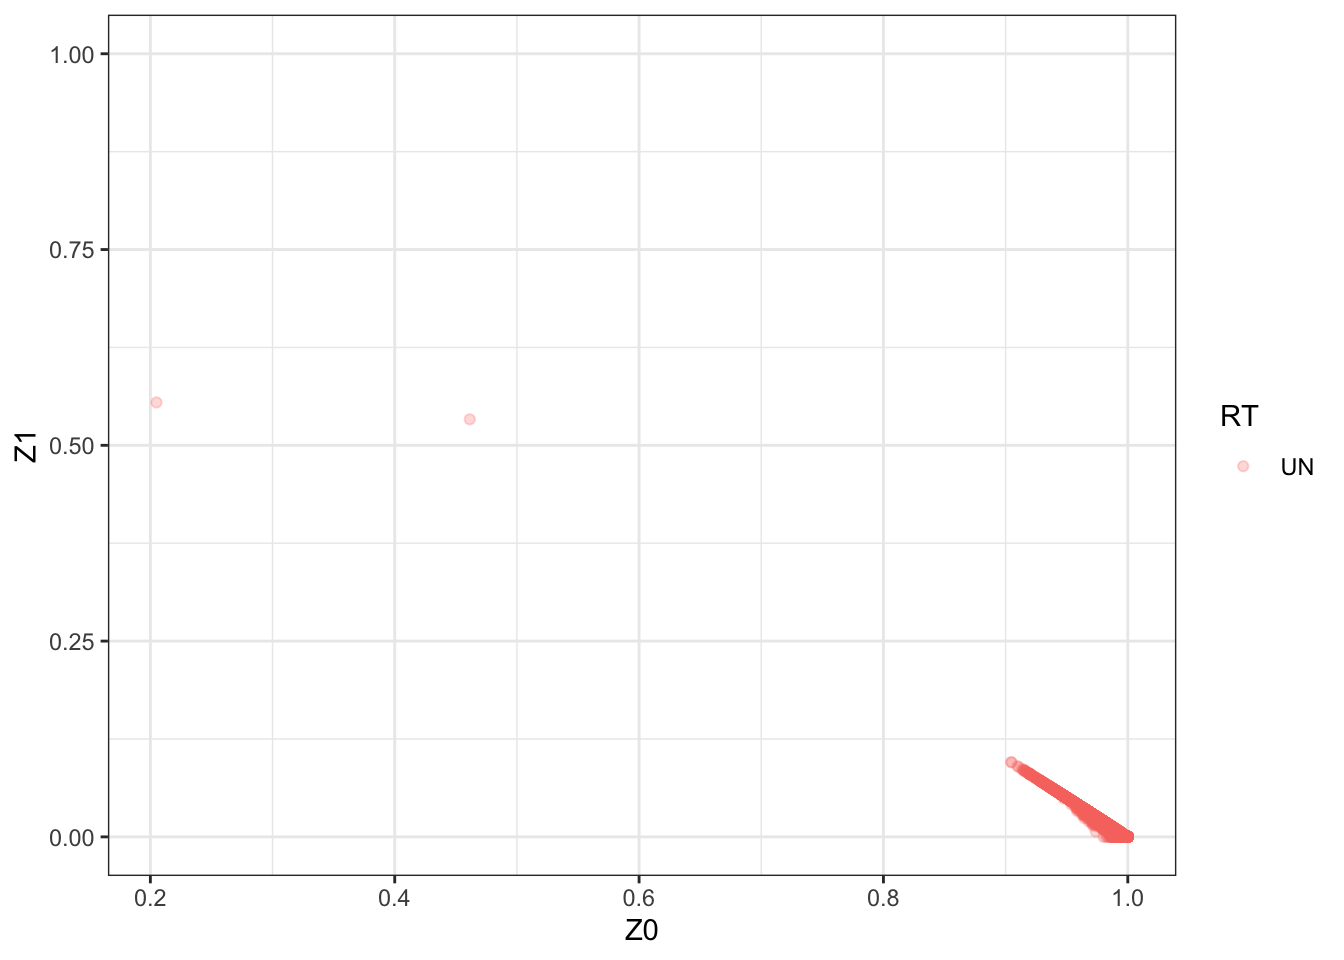
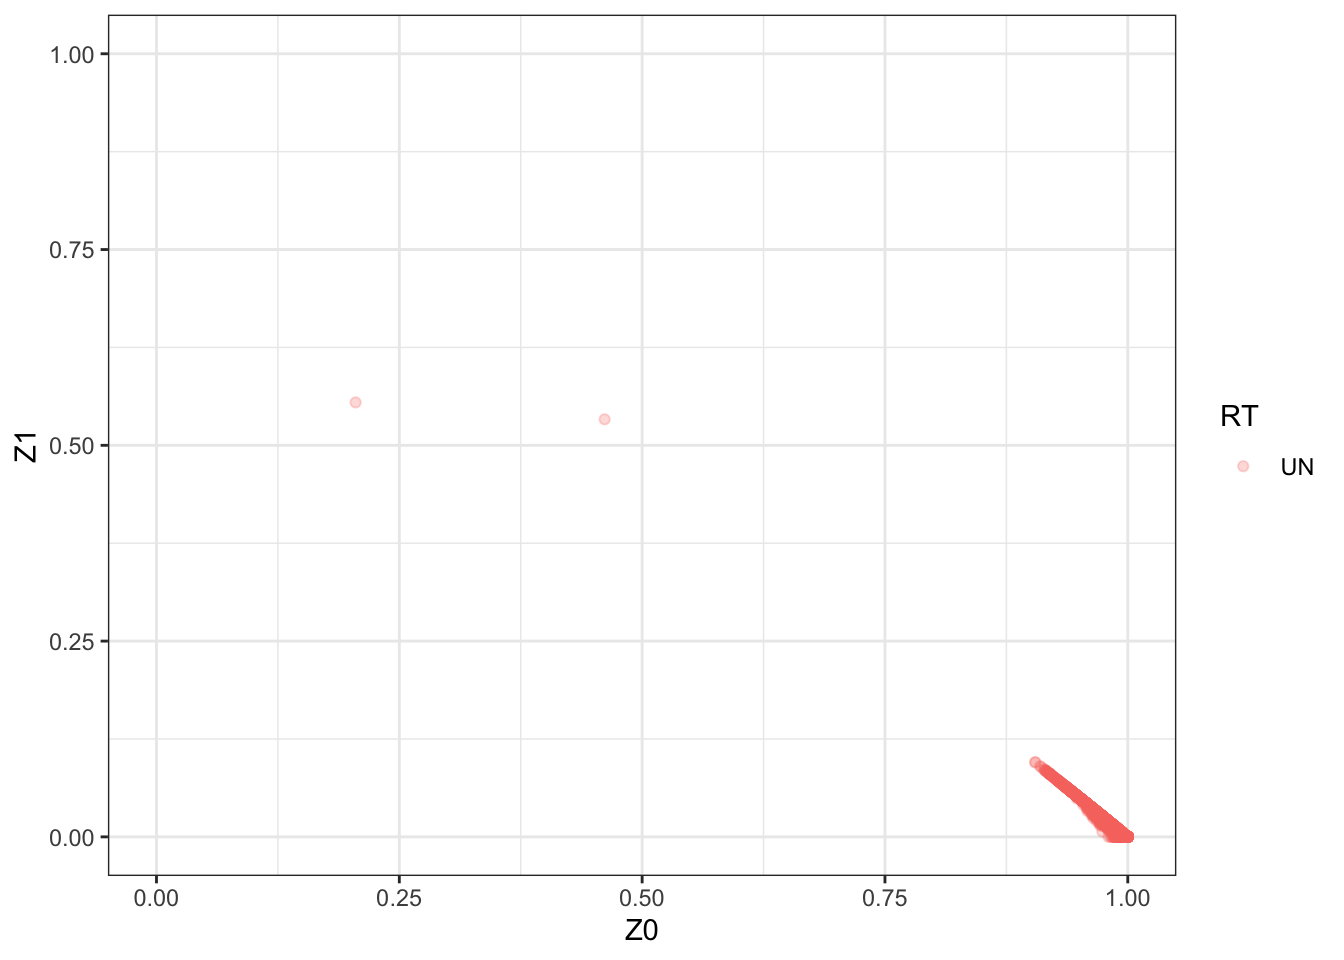
Build site.

diff --git a/docs/IBD_plots.html b/docs/IBD_plots.html
@@ -413,7 +413,7 @@ div.tocify {
 <div class="tab-content">
 <div id="summary" class="tab-pane fade in active">
 <p>
-<strong>Last updated:</strong> 2020-11-29
+<strong>Last updated:</strong> 2020-11-30
 </p>
 <p>
 <strong>Checks:</strong> <span class="glyphicon glyphicon-ok text-success" aria-hidden="true"></span> 7 <span class="glyphicon glyphicon-exclamation-sign text-danger" aria-hidden="true"></span> 0
@@ -504,16 +504,16 @@ This reproducible <a href="http://rmarkdown.rstudio.com">R Markdown</a> analysis
 <div class="panel panel-default">
 <div class="panel-heading">
 <p class="panel-title">
-<a data-toggle="collapse" data-parent="#workflowr-checks" href="#strongRepositoryversionstrongahrefhttpsgithubcomrheapragGWASQCtreed2cf31b3b0caeaece49917428ef15b8c6ef0a4b9targetblankd2cf31ba"> <span class="glyphicon glyphicon-ok text-success" aria-hidden="true"></span> <strong>Repository version:</strong> <a href="https://github.com/rheaprag/GWAS_QC/tree/d2cf31b3b0caeaece49917428ef15b8c6ef0a4b9" target="_blank">d2cf31b</a> </a>
+<a data-toggle="collapse" data-parent="#workflowr-checks" href="#strongRepositoryversionstrongahrefhttpsgithubcomrheapragGWASQCtreebfc2cdd9625312e68dc4f882a8c9b5446c76b51etargetblankbfc2cdda"> <span class="glyphicon glyphicon-ok text-success" aria-hidden="true"></span> <strong>Repository version:</strong> <a href="https://github.com/rheaprag/GWAS_QC/tree/bfc2cdd9625312e68dc4f882a8c9b5446c76b51e" target="_blank">bfc2cdd</a> </a>
 </p>
 </div>
[2 lines of base64/hex data omitted]
 <div class="panel-body">
 <p>
 Great! You are using Git for version control. Tracking code development and connecting the code version to the results is critical for reproducibility.
 </p>
 <p>
-The results in this page were generated with repository version <a href="https://github.com/rheaprag/GWAS_QC/tree/d2cf31b3b0caeaece49917428ef15b8c6ef0a4b9" target="_blank">d2cf31b</a>. See the <em>Past versions</em> tab to see a history of the changes made to the R Markdown and HTML files.
+The results in this page were generated with repository version <a href="https://github.com/rheaprag/GWAS_QC/tree/bfc2cdd9625312e68dc4f882a8c9b5446c76b51e" target="_blank">bfc2cdd</a>. See the <em>Past versions</em> tab to see a history of the changes made to the R Markdown and HTML files.
 </p>
 <p>
 Note that you need to be careful to ensure that all relevant files for the analysis have been committed to Git prior to generating the results (you can use <code>wflow_publish</code> or <code>wflow_git_commit</code>). workflowr only checks the R Markdown file, but you know if there are other scripts or data files that it depends on. Below is the status of the Git repository when the results were generated:
@@ -604,6 +604,9 @@ Untracked files:
     Untracked:  hapmap_Utah_populations.txt
     Untracked:  relationships_w_pops_121708.txt
 
+Unstaged changes:
+    Modified:   analysis/Separate_populations.Rmd
+
 </code></pre>
 <p>
 Note that any generated files, e.g. HTML, png, CSS, etc., are not included in this status report because it is ok for generated content to have uncommitted changes.
@@ -641,6 +644,40 @@ Message
 </tr>
 </thead>
 <tbody>
+<tr>
+<td>
+Rmd
+</td>
+<td>
+<a href="https://github.com/rheaprag/GWAS_QC/blob/bfc2cdd9625312e68dc4f882a8c9b5446c76b51e/analysis/IBD_plots.Rmd" target="_blank">bfc2cdd</a>
+</td>
+<td>
+rheaprag
+</td>
+<td>
+2020-11-30
+</td>
+<td>
+Fix x-axis on IBD plots
+</td>
+</tr>
+<tr>
+<td>
+html
+</td>
+<td>
+<a href="https://rawcdn.githack.com/rheaprag/GWAS_QC/1698e46f3986bc3e6250cd23c903aea1b3eec338/docs/IBD_plots.html" target="_blank">1698e46</a>
+</td>
+<td>
+rheaprag
+</td>
+<td>
+2020-11-29
+</td>
+<td>
+Build site.
+</td>
+</tr>
 <tr>
 <td>
 Rmd
@@ -777,7 +814,7 @@ Add populations to files
 <pre><code>./plink --bfile hapmap_EastAsia --extract hapmap3_02_1_EastAsia.prune.in --genome --out hapmap3_02_2_EastAsia</code></pre>
 <pre><code>library(&quot;ggplot2&quot;)
 ibd &lt;- read.table(&quot;hapmap3_02_2_EastAsia.genome&quot;, header = T)
-ggplot(data=ibd,aes(x=Z0,y=Z1,color=RT))+geom_point(alpha=1/4)+theme_bw()+ylim(0.00, 1.00)</code></pre>
+ggplot(data=ibd,aes(x=Z0,y=Z1,color=RT))+geom_point(alpha=1/4)+theme_bw()+xlim(0.00, 1.00)+ylim(0.00, 1.00)</code></pre>
 <p><img src="figure/IBD_plots.Rmd/unnamed-chunk-1-1.png" width="672" style="display: block; margin: auto;" /></p>
 <p>
 <button type="button" class="btn btn-default btn-xs btn-workflowr btn-workflowr-fig" data-toggle="collapse" data-target="#fig-unnamed-chunk-1-1">
@@ -801,6 +838,17 @@ Date
 </tr>
 </thead>
 <tbody>
+<tr>
+<td>
+<a href="https://github.com/rheaprag/GWAS_QC/blob/1698e46f3986bc3e6250cd23c903aea1b3eec338/docs/figure/IBD_plots.Rmd/unnamed-chunk-1-1.png" target="_blank">1698e46</a>
+</td>
+<td>
+rheaprag
+</td>
+<td>
+2020-11-29
+</td>
+</tr>
 <tr>
 <td>
 <a href="https://github.com/rheaprag/GWAS_QC/blob/e232a3a6963151806d9eceffa898172a60a720a8/docs/figure/IBD_plots.Rmd/unnamed-chunk-1-1.png" target="_blank">e232a3a</a>
@@ -834,7 +882,7 @@ rheaprag
 <pre><code>./plink --bfile hapmap_Utah --extract hapmap3_02_1_Utah.prune.in --genome --out hapmap3_02_2_Utah</code></pre>
 <pre><code>library(&quot;ggplot2&quot;)
 ibd &lt;- read.table(&quot;hapmap3_02_2_Utah.genome&quot;, header = T)
-ggplot(data=ibd,aes(x=Z0,y=Z1,color=RT))+geom_point(alpha=1/4)+theme_bw()+ylim(0.00, 1.00)</code></pre>
+ggplot(data=ibd,aes(x=Z0,y=Z1,color=RT))+geom_point(alpha=1/4)+theme_bw()+xlim(0.00, 1.00)+ylim(0.00, 1.00)</code></pre>
 <p><img src="figure/IBD_plots.Rmd/unnamed-chunk-2-1.png" width="672" style="display: block; margin: auto;" /></p>
 <p>
 <button type="button" class="btn btn-default btn-xs btn-workflowr btn-workflowr-fig" data-toggle="collapse" data-target="#fig-unnamed-chunk-2-1">
@@ -891,7 +939,7 @@ rheaprag
 <pre><code>./plink --bfile hapmap_ColoradoChinese --extract hapmap3_02_1_ColoradoChinese.prune.in --genome --out hapmap3_02_2_ColoradoChinese</code></pre>
 <pre><code>library(&quot;ggplot2&quot;)
 ibd &lt;- read.table(&quot;hapmap3_02_2_ColoradoChinese.genome&quot;, header = T)
-ggplot(data=ibd,aes(x=Z0,y=Z1,color=RT))+geom_point(alpha=1/4)+theme_bw()+ylim(0.00, 1.00)</code></pre>
+ggplot(data=ibd,aes(x=Z0,y=Z1,color=RT))+geom_point(alpha=1/4)+theme_bw()+xlim(0.00, 1.00)+ylim(0.00, 1.00)</code></pre>
 <p><img src="figure/IBD_plots.Rmd/unnamed-chunk-3-1.png" width="672" style="display: block; margin: auto;" /></p>
 <p>
 <button type="button" class="btn btn-default btn-xs btn-workflowr btn-workflowr-fig" data-toggle="collapse" data-target="#fig-unnamed-chunk-3-1">
@@ -948,7 +996,7 @@ rheaprag
 <pre><code>./plink --bfile hapmap_Gujarati --extract hapmap3_02_1_Gujarati.prune.in --genome --out hapmap3_02_2_Gujarati</code></pre>
 <pre><code>library(&quot;ggplot2&quot;)
 ibd &lt;- read.table(&quot;hapmap3_02_2_Gujarati.genome&quot;, header = T)
-ggplot(data=ibd,aes(x=Z0,y=Z1,color=RT))+geom_point(alpha=1/4)+theme_bw()+ylim(0.00, 1.00)</code></pre>
+ggplot(data=ibd,aes(x=Z0,y=Z1,color=RT))+geom_point(alpha=1/4)+theme_bw()+xlim(0.00, 1.00)+ylim(0.00, 1.00)</code></pre>
 <p><img src="figure/IBD_plots.Rmd/unnamed-chunk-4-1.png" width="672" style="display: block; margin: auto;" /></p>
 <p>
 <button type="button" class="btn btn-default btn-xs btn-workflowr btn-workflowr-fig" data-toggle="collapse" data-target="#fig-unnamed-chunk-4-1">
@@ -1005,7 +1053,7 @@ rheaprag
 <pre><code>./plink --bfile hapmap_Mexican --extract hapmap3_02_1_Mexican.prune.in --genome --out hapmap3_02_2_Mexican</code></pre>
 <pre><code>library(&quot;ggplot2&quot;)
 ibd &lt;- read.table(&quot;hapmap3_02_2_Mexican.genome&quot;, header = T)
-ggplot(data=ibd,aes(x=Z0,y=Z1,color=RT))+geom_point(alpha=1/4)+theme_bw()+ylim(0.00, 1.00)</code></pre>
+ggplot(data=ibd,aes(x=Z0,y=Z1,color=RT))+geom_point(alpha=1/4)+theme_bw()+xlim(0.00, 1.00)+ylim(0.00, 1.00)</code></pre>
 <p><img src="figure/IBD_plots.Rmd/unnamed-chunk-5-1.png" width="672" style="display: block; margin: auto;" /></p>
 <p>
 <button type="button" class="btn btn-default btn-xs btn-workflowr btn-workflowr-fig" data-toggle="collapse" data-target="#fig-unnamed-chunk-5-1">
@@ -1062,7 +1110,7 @@ rheaprag
 <pre><code>./plink --bfile hapmap_Toscans --extract hapmap3_02_1_Toscans.prune.in --genome --out hapmap3_02_2_Toscans</code></pre>
 <pre><code>library(&quot;ggplot2&quot;)
 ibd &lt;- read.table(&quot;hapmap3_02_2_Toscans.genome&quot;, header = T)
-ggplot(data=ibd,aes(x=Z0,y=Z1,color=RT))+geom_point(alpha=1/4)+theme_bw()+ylim(0.00, 1.00)</code></pre>
+ggplot(data=ibd,aes(x=Z0,y=Z1,color=RT))+geom_point(alpha=1/4)+theme_bw()+xlim(0.00, 1.00)+ylim(0.00, 1.00)</code></pre>
 <p><img src="figure/IBD_plots.Rmd/unnamed-chunk-6-1.png" width="672" style="display: block; margin: auto;" /></p>
 <p>
 <button type="button" class="btn btn-default btn-xs btn-workflowr btn-workflowr-fig" data-toggle="collapse" data-target="#fig-unnamed-chunk-6-1">
@@ -1086,6 +1134,17 @@ Date
 </tr>
 </thead>
 <tbody>
+<tr>
+<td>
+<a href="https://github.com/rheaprag/GWAS_QC/blob/1698e46f3986bc3e6250cd23c903aea1b3eec338/docs/figure/IBD_plots.Rmd/unnamed-chunk-6-1.png" target="_blank">1698e46</a>
+</td>
+<td>
+rheaprag
+</td>
+<td>
+2020-11-29
+</td>
+</tr>
 <tr>
 <td>
 <a href="https://github.com/rheaprag/GWAS_QC/blob/e232a3a6963151806d9eceffa898172a60a720a8/docs/figure/IBD_plots.Rmd/unnamed-chunk-6-1.png" target="_blank">e232a3a</a>

diff --git a/docs/02-RelatednessFiltering.html b/docs/02-RelatednessFiltering.html
@@ -413,7 +413,7 @@ div.tocify {
 <div class="tab-content">
 <div id="summary" class="tab-pane fade in active">
 <p>
-<strong>Last updated:</strong> 2020-11-29
+<strong>Last updated:</strong> 2020-11-30
 </p>
 <p>
 <strong>Checks:</strong> <span class="glyphicon glyphicon-ok text-success" aria-hidden="true"></span> 7 <span class="glyphicon glyphicon-exclamation-sign text-danger" aria-hidden="true"></span> 0
@@ -504,16 +504,16 @@ This reproducible <a href="http://rmarkdown.rstudio.com">R Markdown</a> analysis
 <div class="panel panel-default">
 <div class="panel-heading">
 <p class="panel-title">
-<a data-toggle="collapse" data-parent="#workflowr-checks" href="#strongRepositoryversionstrongahrefhttpsgithubcomrheapragGWASQCtreed2cf31b3b0caeaece49917428ef15b8c6ef0a4b9targetblankd2cf31ba"> <span class="glyphicon glyphicon-ok text-success" aria-hidden="true"></span> <strong>Repository version:</strong> <a href="https://github.com/rheaprag/GWAS_QC/tree/d2cf31b3b0caeaece49917428ef15b8c6ef0a4b9" target="_blank">d2cf31b</a> </a>
+<a data-toggle="collapse" data-parent="#workflowr-checks" href="#strongRepositoryversionstrongahrefhttpsgithubcomrheapragGWASQCtreebfc2cdd9625312e68dc4f882a8c9b5446c76b51etargetblankbfc2cdda"> <span class="glyphicon glyphicon-ok text-success" aria-hidden="true"></span> <strong>Repository version:</strong> <a href="https://github.com/rheaprag/GWAS_QC/tree/bfc2cdd9625312e68dc4f882a8c9b5446c76b51e" target="_blank">bfc2cdd</a> </a>
 </p>
 </div>
[2 lines of base64/hex data omitted]
 <div class="panel-body">
 <p>
 Great! You are using Git for version control. Tracking code development and connecting the code version to the results is critical for reproducibility.
 </p>
 <p>
-The results in this page were generated with repository version <a href="https://github.com/rheaprag/GWAS_QC/tree/d2cf31b3b0caeaece49917428ef15b8c6ef0a4b9" target="_blank">d2cf31b</a>. See the <em>Past versions</em> tab to see a history of the changes made to the R Markdown and HTML files.
+The results in this page were generated with repository version <a href="https://github.com/rheaprag/GWAS_QC/tree/bfc2cdd9625312e68dc4f882a8c9b5446c76b51e" target="_blank">bfc2cdd</a>. See the <em>Past versions</em> tab to see a history of the changes made to the R Markdown and HTML files.
 </p>
 <p>
 Note that you need to be careful to ensure that all relevant files for the analysis have been committed to Git prior to generating the results (you can use <code>wflow_publish</code> or <code>wflow_git_commit</code>). workflowr only checks the R Markdown file, but you know if there are other scripts or data files that it depends on. Below is the status of the Git repository when the results were generated:
@@ -604,6 +604,9 @@ Untracked files:
     Untracked:  hapmap_Utah_populations.txt
     Untracked:  relationships_w_pops_121708.txt
 
+Unstaged changes:
+    Modified:   analysis/Separate_populations.Rmd
+
 </code></pre>
 <p>
 Note that any generated files, e.g. HTML, png, CSS, etc., are not included in this status report because it is ok for generated content to have uncommitted changes.
@@ -641,6 +644,40 @@ Message
 </tr>
 </thead>
 <tbody>
+<tr>
+<td>
+Rmd
+</td>
+<td>
+<a href="https://github.com/rheaprag/GWAS_QC/blob/bfc2cdd9625312e68dc4f882a8c9b5446c76b51e/analysis/02-RelatednessFiltering.Rmd" target="_blank">bfc2cdd</a>
+</td>
+<td>
+rheaprag
+</td>
+<td>
+2020-11-30
+</td>
+<td>
+Fix x-axis on IBD plots
+</td>
+</tr>
+<tr>
+<td>
+html
+</td>
+<td>
+<a href="https://rawcdn.githack.com/rheaprag/GWAS_QC/1698e46f3986bc3e6250cd23c903aea1b3eec338/docs/02-RelatednessFiltering.html" target="_blank">1698e46</a>
+</td>
+<td>
+rheaprag
+</td>
+<td>
+2020-11-29
+</td>
+<td>
+Build site.
+</td>
+</tr>
 <tr>
 <td>
 Rmd
@@ -1204,7 +1241,7 @@ Add 02 analysis
 <p>In order to check the IBD:</p>
 <pre><code>library(&quot;ggplot2&quot;)
 ibd &lt;- read.table(&quot;hapmap3_02_2_African.genome&quot;, header = T)
-ggplot(data=ibd,aes(x=Z0,y=Z1,color=RT))+geom_point(alpha=1/4)+theme_bw()+ylim(0.00, 1.00)</code></pre>
+ggplot(data=ibd,aes(x=Z0,y=Z1,color=RT))+geom_point(alpha=1/4)+theme_bw()+xlim(0.00, 1.00)+ylim(0.00, 1.00)</code></pre>
 <p><img src="figure/02-RelatednessFiltering.Rmd/unnamed-chunk-1-1.png" width="672" style="display: block; margin: auto;" /></p>
 <p>
 <button type="button" class="btn btn-default btn-xs btn-workflowr btn-workflowr-fig" data-toggle="collapse" data-target="#fig-unnamed-chunk-1-1">
